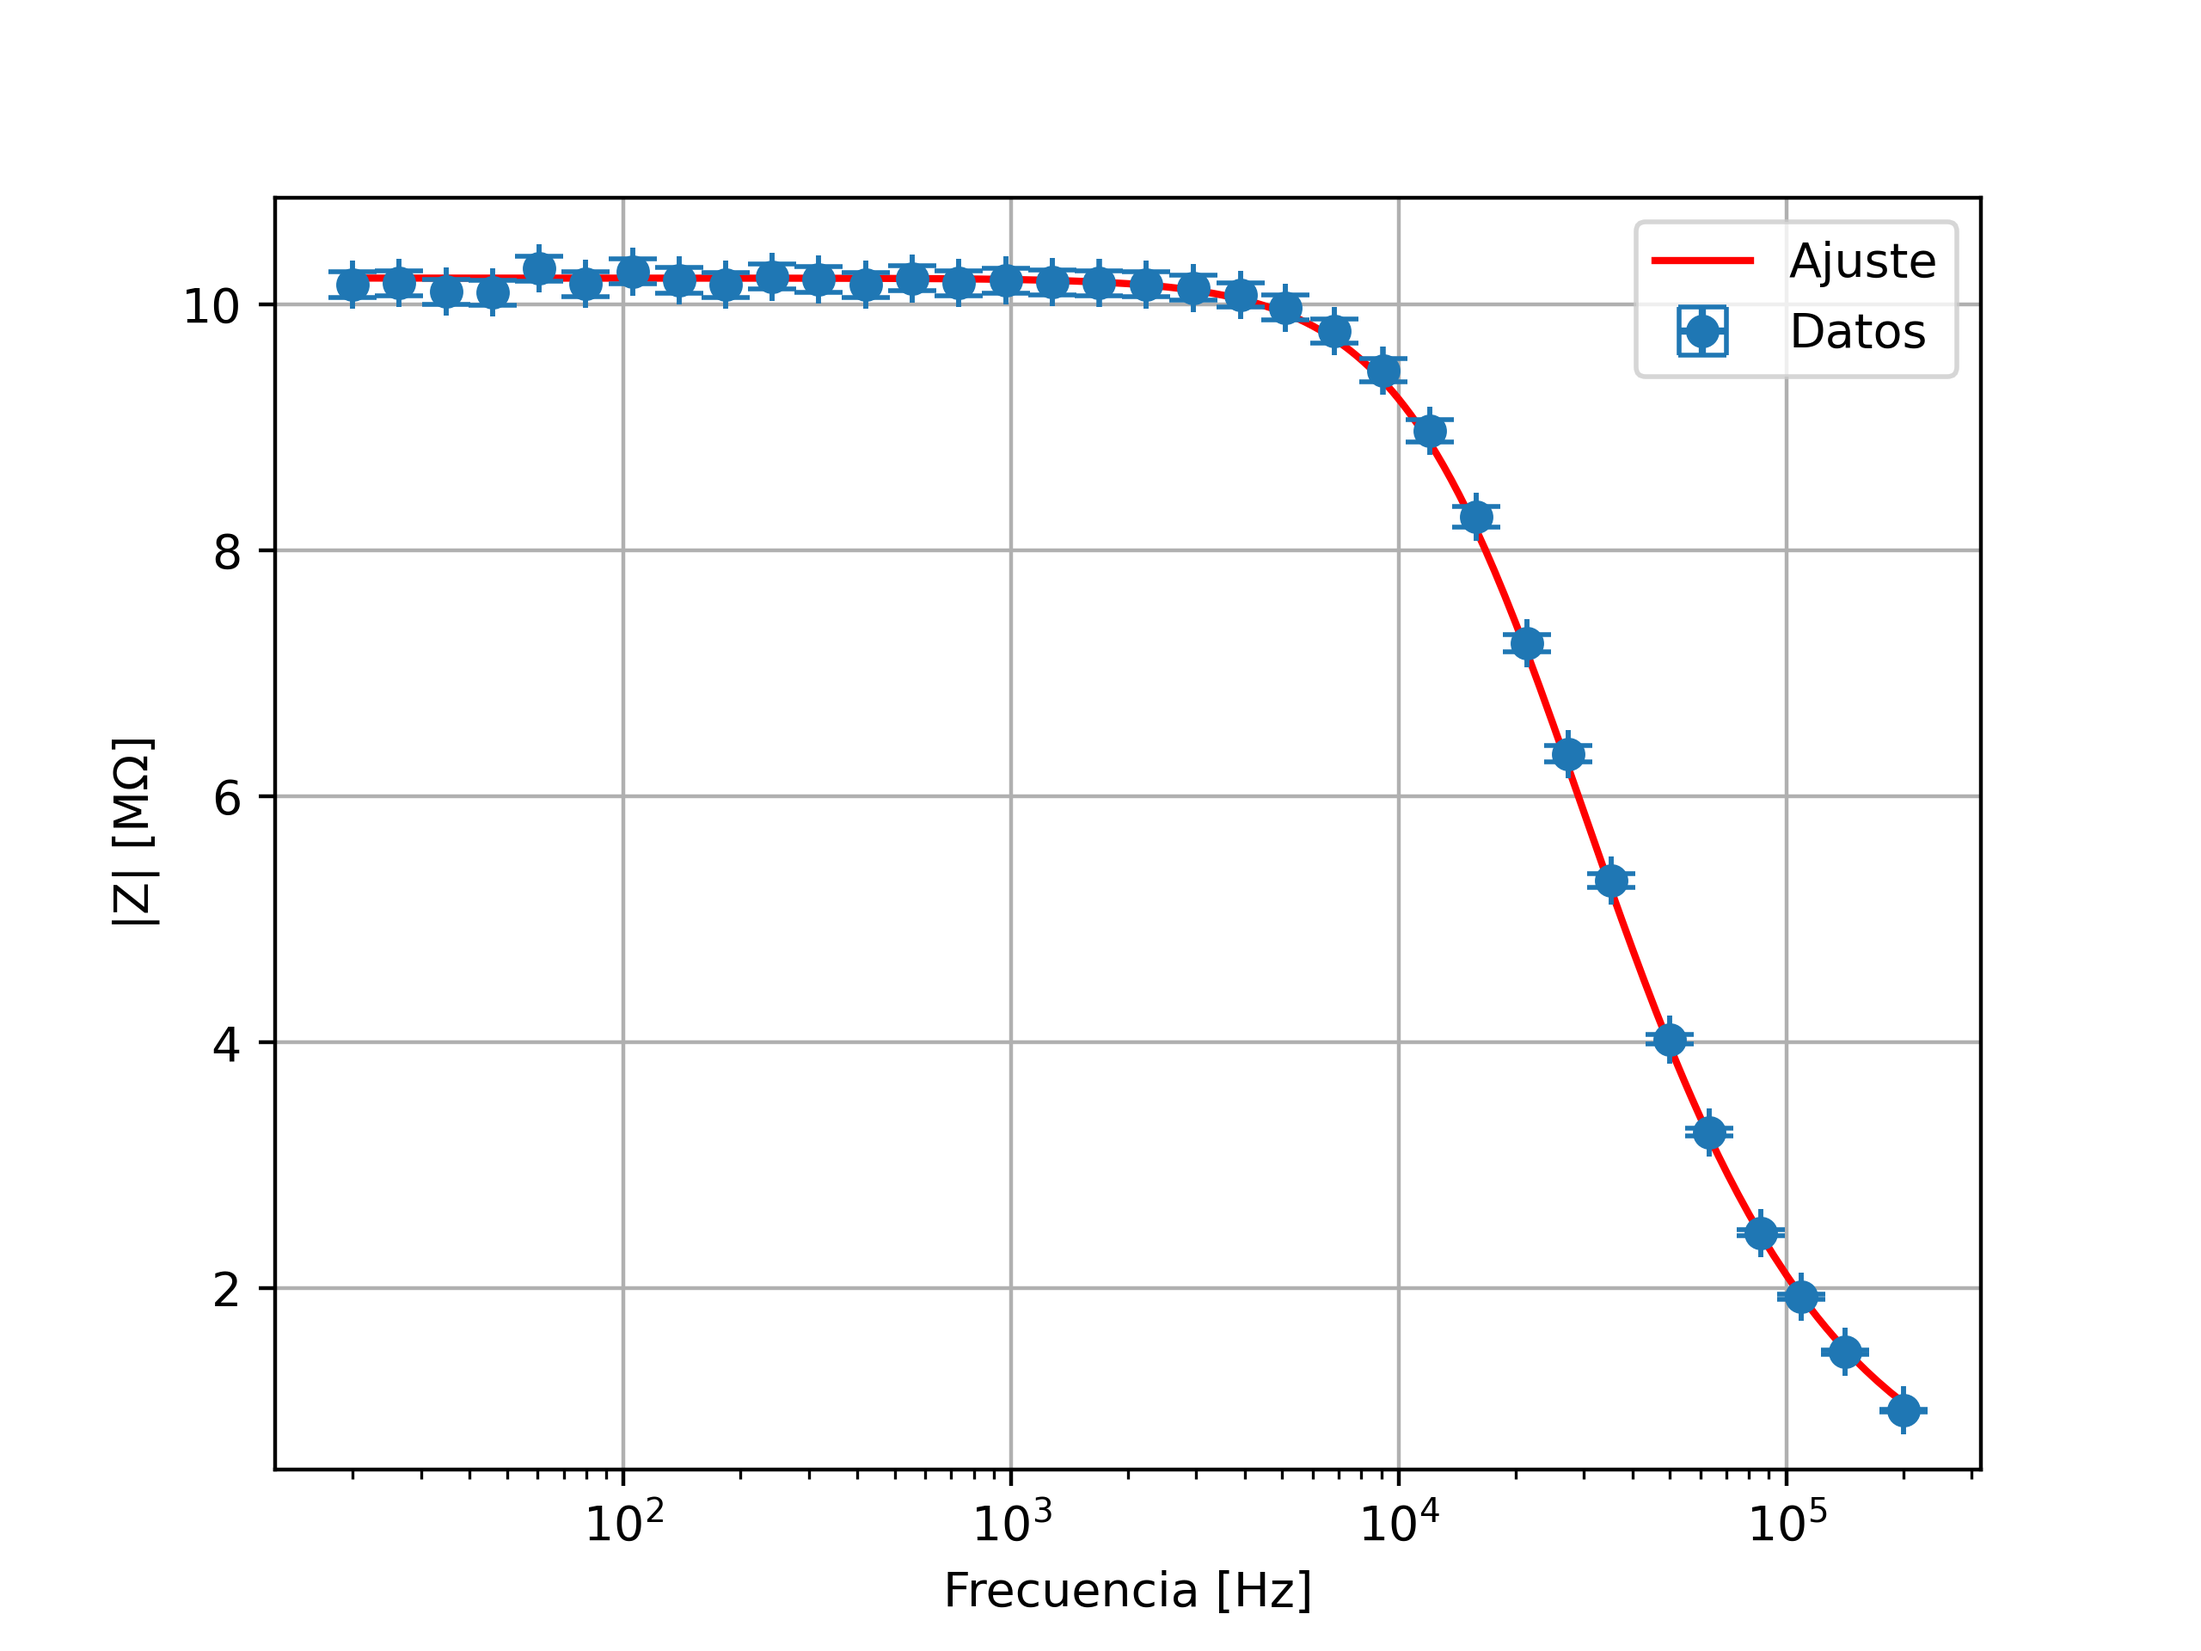
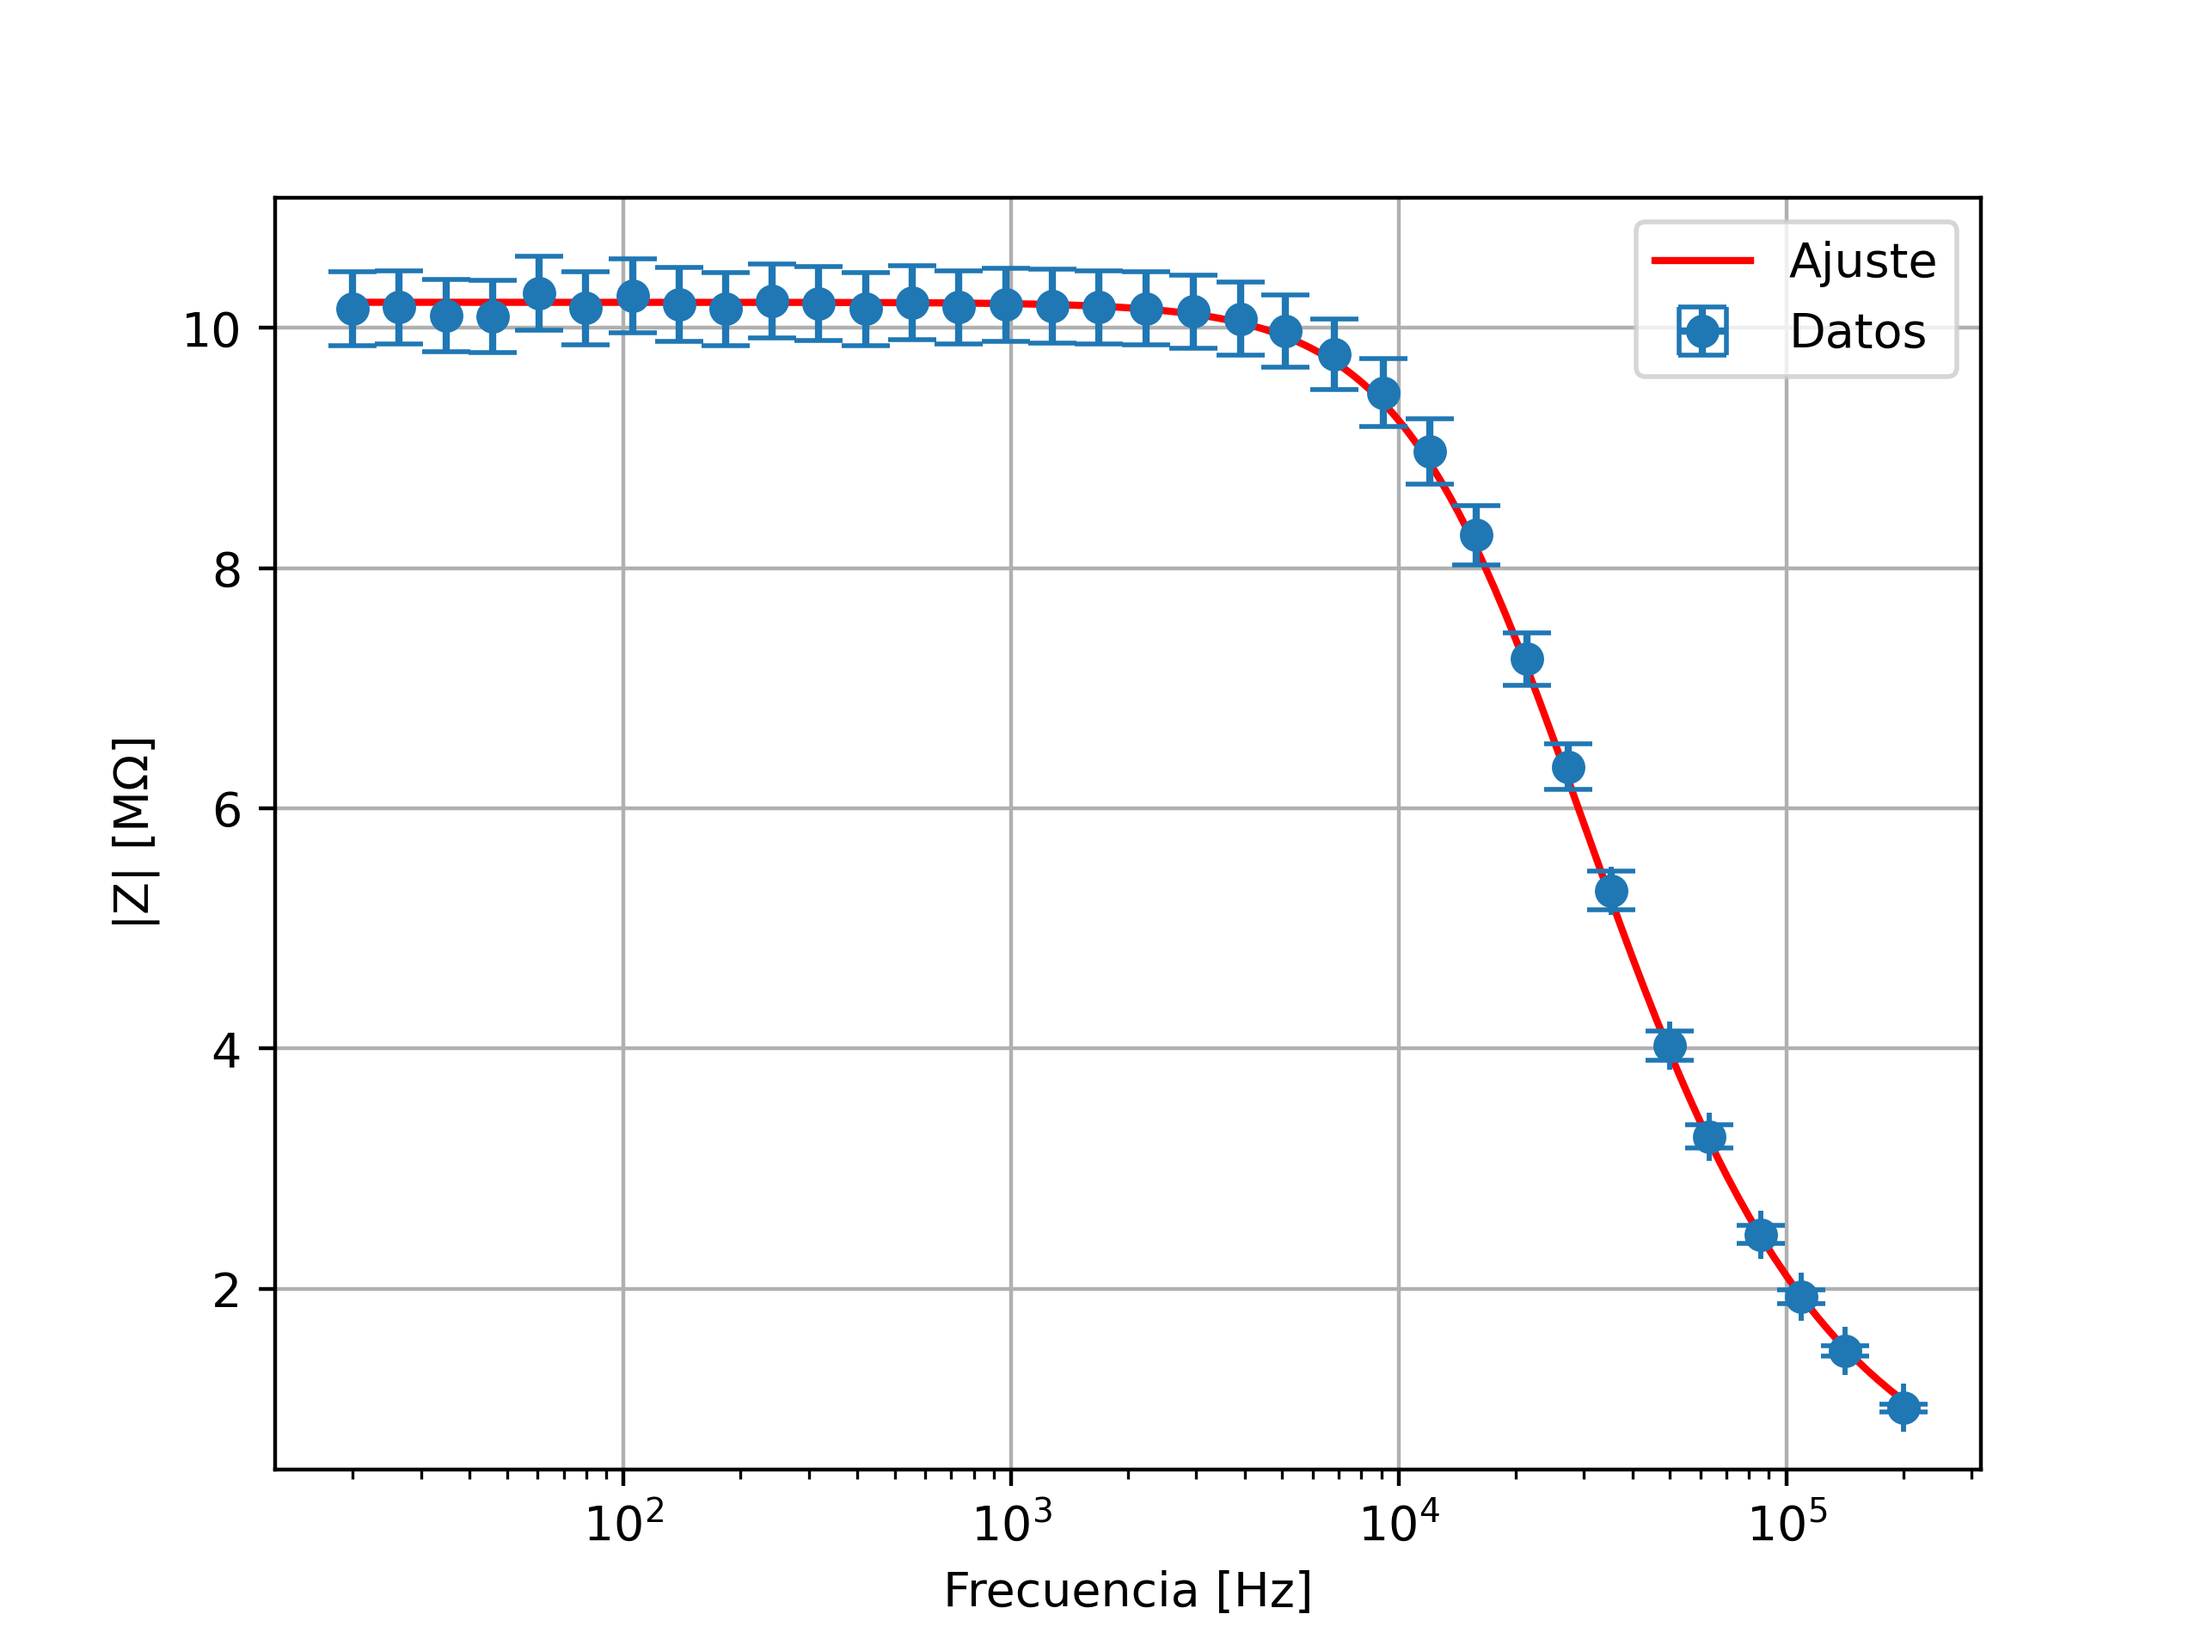
Hago grafico para el corto

diff --git a/graficos.py b/graficos.py
@@ -242,7 +242,7 @@ def phase_RC(f, R, C):
 f, Z, phase = np.loadtxt('resistencia\\resistencia_10mOhm_sincorrecciones.csv', delimiter=',', unpack=True, skiprows=1)
 
 f_err = 0.01/100 * f
-Z_err, phase_err = Z*1/100, phase/100
+Z_err, phase_err = Z*3/100, phase/100
 
 popt_Z, pcov_Z = curve_fit(Z_RC, f, Z, p0 = [1e7, 4.5e-12], sigma=Z_err, absolute_sigma=True)
 print(f'R = ({popt_Z[0]*1e-6} +/- {np.sqrt(np.diag(pcov_Z))[0]*1e-6}) MOhm \n C = ({popt_Z[1]*1e12} +/- {np.sqrt(np.diag(pcov_Z))[1]*1e12}) pF')
@@ -257,5 +257,34 @@ plt.xlabel('Frecuencia [Hz]')
 plt.xscale('log')
 plt.legend()
 plt.grid()
-plt.savefig('graficos/bode-resistencia-pura.png', dpi=400)
+plt.savefig('graficos/impedancia-resistencia-pura.png', dpi=400)
+plt.show()
+
+#########################
+#FIGURA 10
+#########################
+def Z_RL(f, R, L):
+    w = 2*np.pi*f
+    return np.sqrt(R**2 + (w*L)**2)
+
+
+f, Z, phase = np.loadtxt('Caracterización\\medicion_corto.csv', delimiter=',', unpack=True, skiprows=1)
+
+f_err = 0.01/100 * f
+Z_err, phase_err = Z*3/100, phase*3/100
+
+popt_Z, pcov_Z = curve_fit(Z_RL, f, Z, p0 = [0, 0], sigma=Z_err, absolute_sigma=True)
+print(f'R = ({popt_Z[0]*1e3} +/- {np.sqrt(np.diag(pcov_Z))[0]*1e3}) mOhm \n L = ({popt_Z[1]*1e9} +/- {np.sqrt(np.diag(pcov_Z))[1]*1e9}) nH')
+
+popt_phase, pcov_phase = curve_fit(phase_RC, f, phase, p0 = [*popt_Z], sigma=phase_err, absolute_sigma=True)
+print(f'R = ({popt_phase[0]*1e-3} +/- {np.sqrt(np.diag(pcov_phase))[0]*1e-3}) kOhm \n C = ({popt_phase[1]*1e9} +/- {np.sqrt(np.diag(pcov_phase))[1]*1e9}) nF')
+
+plt.plot(f, Z_RL(f, *popt_Z), 'r', label='Ajuste')
+plt.errorbar(f, Z, xerr=f_err, yerr=Z_err, color='C0', linestyle='None', marker='o', capsize=5, markevery=15, errorevery=15, label='Datos')
+plt.ylabel('|Z| [$\Omega$]')
+plt.xlabel('Frecuencia [Hz]')
+plt.xscale('log')
+plt.legend()
+plt.grid()
+plt.savefig('graficos/impedancia-en-corto.png', dpi=400)
 plt.show()
